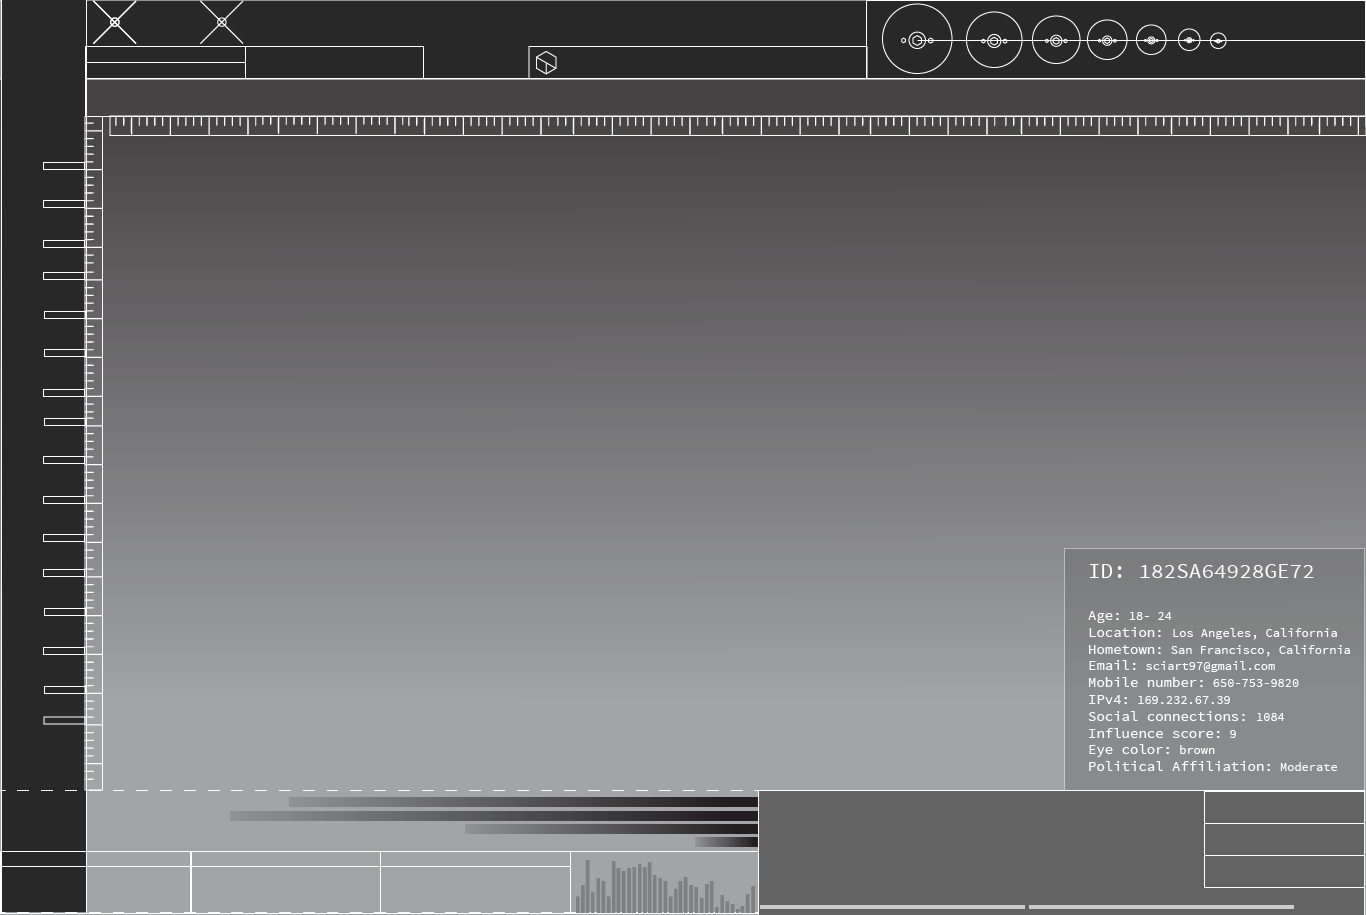
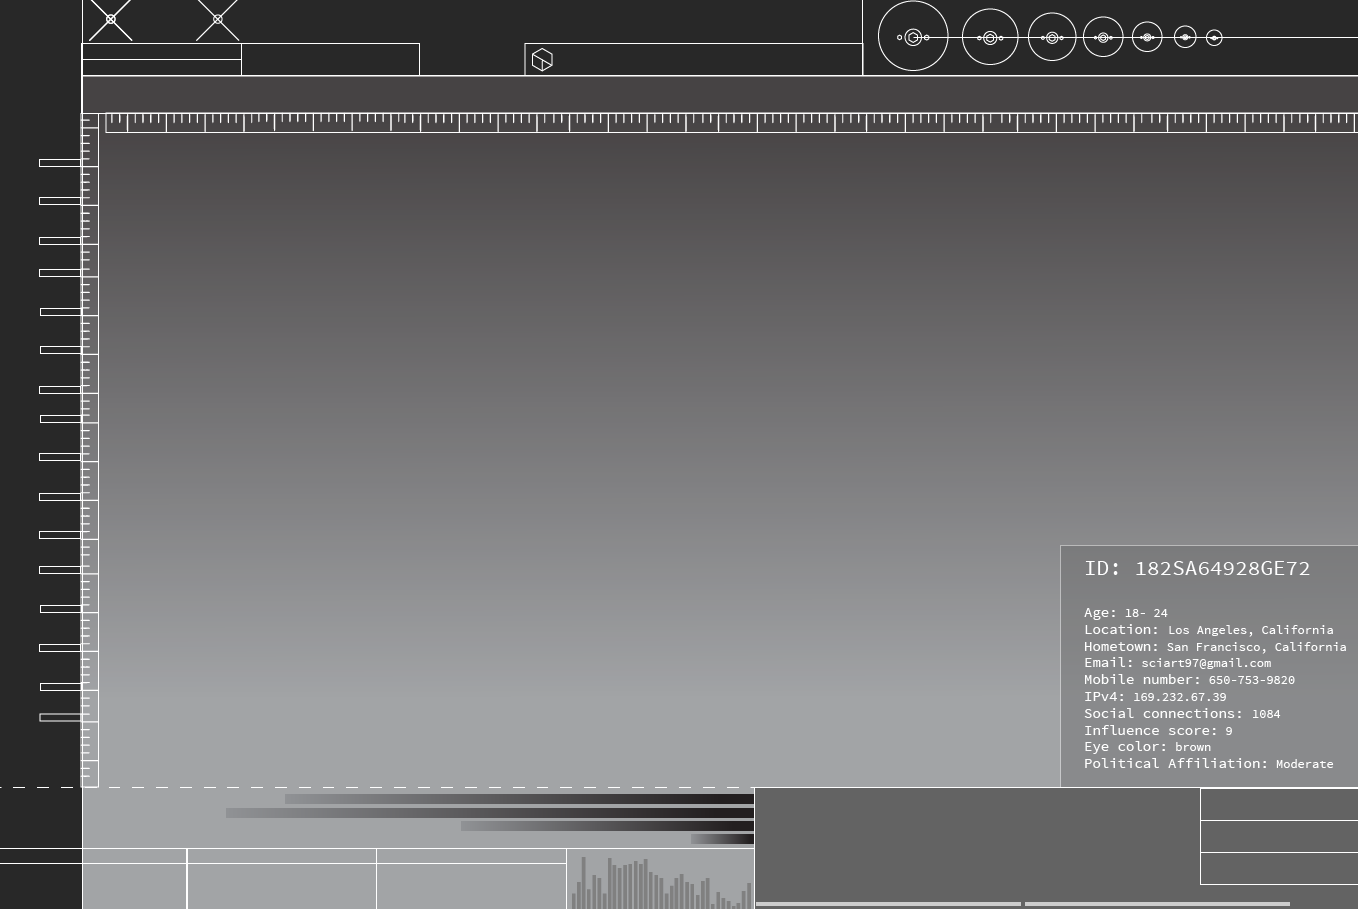
rearranged video and analysis layer

diff --git a/public/css/social.css b/public/css/social.css
@@ -249,19 +249,16 @@ canvas {
 #recording {
   width: 100vw;
   height: 100vh;
-  overflow: hidden; }
-  #recording img {
-    width: 100%;
-    opacity: 0.7; }
+  overflow-y: hidden;
+  background-image: url("../img/analysis.png");
+  background-size: cover; }
 
 #video {
-  position: absolute;
-  top: 0;
-  right: 0;
   width: 100%;
   z-index: -1;
   background-color: black;
-  overflow: hidden; }
+  overflow: hidden;
+  opacity: 0.5; }
 
 #names-wrapper {
   margin-top: 100px; }

diff --git a/public/css/social.scss b/public/css/social.scss
@@ -333,22 +333,17 @@ canvas {
 #recording {
   width: 100vw;
   height: 100vh;
-  overflow: hidden;
-
-  img {
-    width: 100%;
-    opacity: 0.7;
-  }
+  overflow-y: hidden;
+  background-image: url('../img/analysis.png');
+  background-size: cover;
 }
 
 #video {
-  position: absolute;
-  top: 0;
-  right: 0;
   width: 100%;
   z-index: -1;
   background-color: black;
   overflow: hidden;
+  opacity: 0.5;
 }
 
 #names-wrapper {
